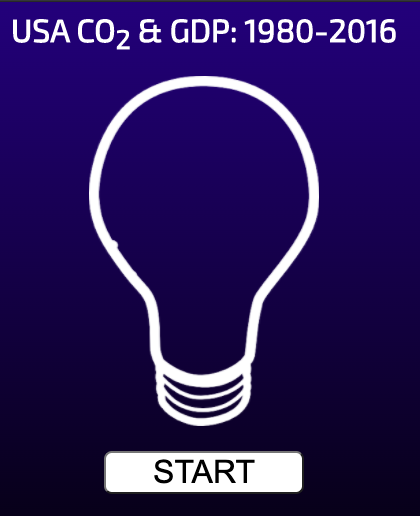
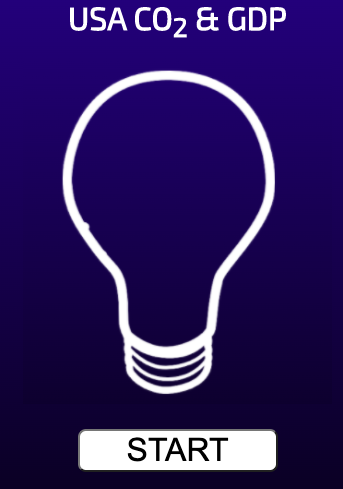
update CO2 app picture, properly display app image in projects section

Changed region(s): [[0.1749, 0.1227, 0.8163, 0.8282], [0.0, 0.0, 1.0, 0.1227], [0.2041, 0.8589, 0.8163, 0.9816]]

diff --git a/src/index.css b/src/index.css
@@ -127,7 +127,9 @@ nav {
 
 .section-projects .project-image {
   width: 100%;
-  margin-top: 20px;
+  max-width: 300px;
+  border-radius: 25px;
+  height: 100%;
 }
 
 .section-projects .project-image-overlay {
